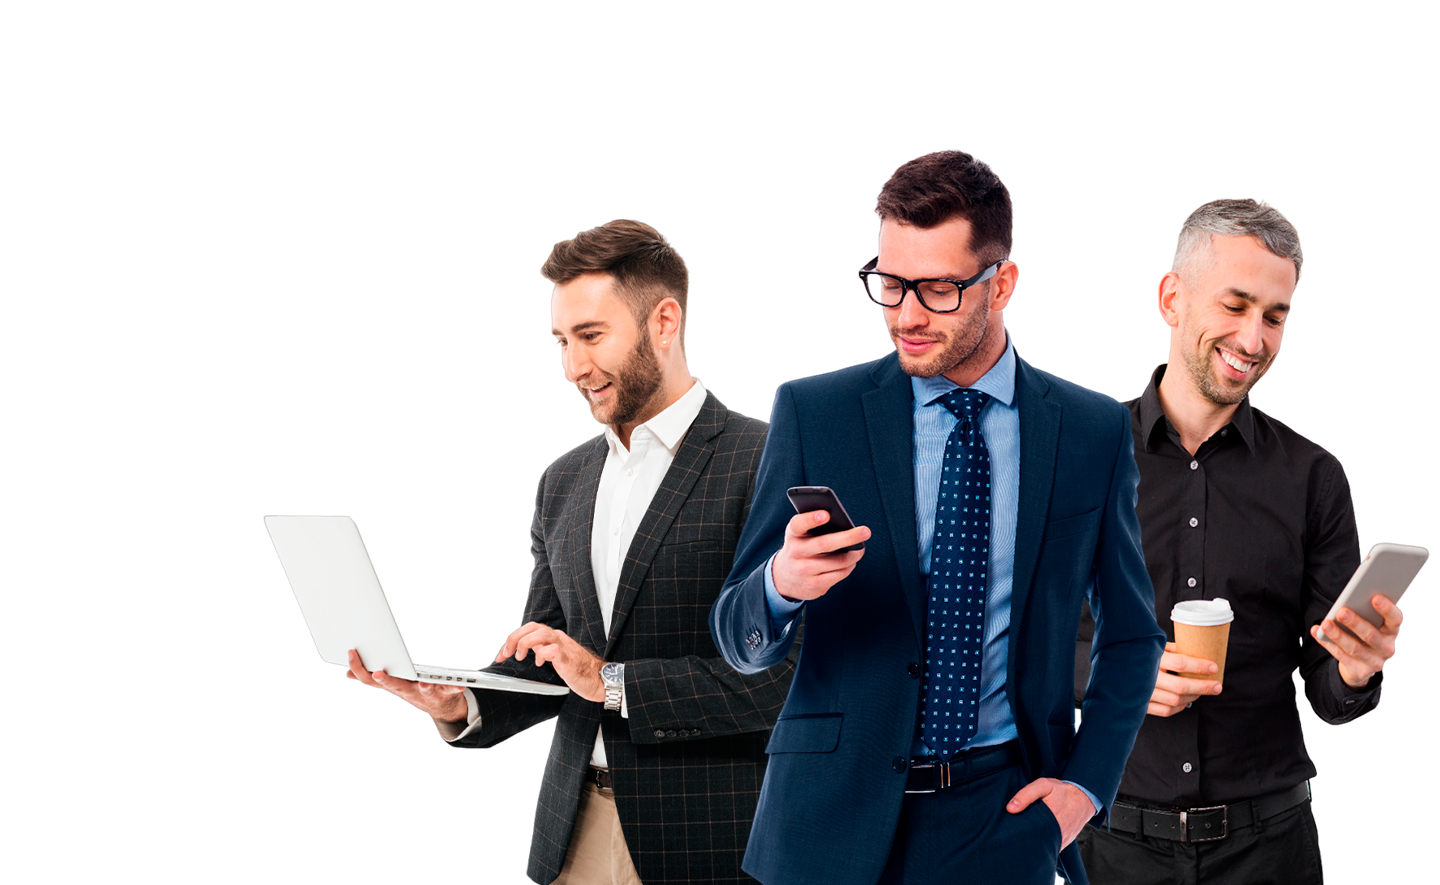
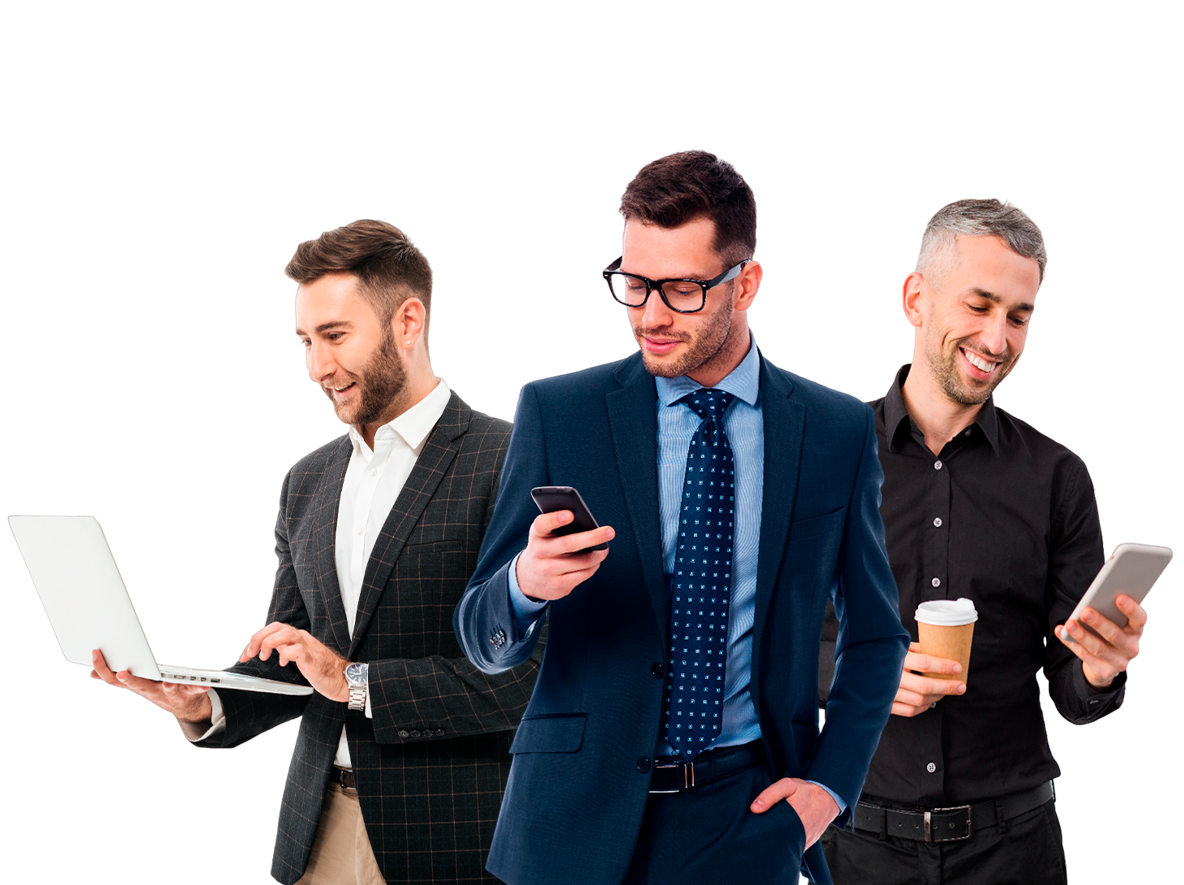
2 bugs resolvidos

diff --git a/style/style.css b/style/style.css
@@ -60,56 +60,45 @@ body{
 }
 
 .bg-image {
-    width: 75%;
-    display: flex;
-    float: right;
+    width: 800px;
     margin-top: -70px;
-    flex-direction: column;
+    padding-left: 70px;
+}
+
+.alignCta{
+    padding-left: 20px;
+    padding-top: 200px;
 }
 
 .cta-1{
-    position: absolute;
-    left: 300px;
-    bottom: 200px;
     font-size: 40px;
-    top: 40%;
-    left: 7%;
-    display: block;
+    font-weight: 600;
+    padding-bottom: 8px;
 }
 
-#cta{
-    width: 383px;
-    height: 57px;
-    flex-shrink: 0; /*pesquisar*/
-    border-radius: 12px;
+#ctaButton button{
     cursor: pointer;
-    position: fixed;
-    display: block;
-    margin-left: -25rem;
-    margin-top: 100px;    
+    font-size: 20px;
+    font-weight: 700;
+    width: 367px;
+    height: 57px;
+    color: #fff;
+    border: none;
+    border-radius: 12px;
     background: #0B8DD4;
+    transition: 0.7s;
 }
 
-.cta-1, #cta{
-    display: block;
+#ctaButton button:hover{
+    background-color: #fff;
+    color: #0891DD;
+    border: solid #0891DD 0.5px;
+    transition: 0.7s;
 }
 
-#cta, h3{
-    color: white;
-    position: absolute;
-    top: 50%;
-    left: 50%;
-    transform: translate(-50%, -50%);
-    transition: 0.3s;
-}
-
-#cta:hover{
-    background-color: white;
-    border: solid #0B8DD4 0.1px;
-}
-#cta:hover > h3{
-    color: #0B8DD4;
-    transition: 0.3s;
+.containerUm{
+    display: flex;
+    justify-content: center;
 }
 
 a{
@@ -124,12 +113,12 @@ a{
     background-color: #0B8DD4;
 }
 
-.sessao-2 > h1{
+.sessao-2 h1{
     font-size: 30px;
     display: flex;
 }
 
-.sessao-2 > h1 > span{
+.sessao-2 h1, span{
     color: white;
 }
 
@@ -288,7 +277,7 @@ a{
     background-color: white;
 }
 
-.sessao-3 > h1{
+.sessao-3 h1{
     color: #161212;
     font-family: "Poppins";
     margin: 9rem 1rem 1rem 1rem;
@@ -381,7 +370,7 @@ a{
 .sessao-5{
     margin-top: 2rem;
     margin-left: 3rem;
-    font-size: 1.5rem;
+    font-size: 1.5rem;    
 }
 
 .sessao-5 h4{
@@ -392,6 +381,7 @@ a{
     display: grid;
     grid-template-columns: repeat(3, 25rem);
     gap: 1rem;
+    justify-content: center;
     list-style-type: none;
     overflow-x: hidden; 
     margin-bottom: 6rem
@@ -478,7 +468,7 @@ footer{
   }
   
   .sectionCta{
-    width: 100%;
+    
     height: auto;
   }
 

diff --git a/pages/index.html b/pages/index.html
@@ -40,11 +40,13 @@
     </div>
     <!--Negocie com os mercados globais-->
     <nav class="containerUm">
-        <img class="bg-image" src="../img/mens.png" alt="">
-        <h1 class="cta-1">Negocie com os <br> <span style="color: #0B8DD4;"> Mercados Globais </span></h1>
-        <div id="cta">
-            <h3>Quero começar</h3>
-        </div>
+      <div class="alignCta">
+      <h1 class="cta-1">Negocie com os <br> <span style="color: #0B8DD4;"> Mercados Globais </span></h1>
+      <div id="ctaButton">
+          <button>Quero começar</button>
+      </div>
+    </div>
+        <img class="bg-image" src="../img/mens.png" alt="Homens">
     </nav>
 </section>
 <!--Segunda sessão do site - Duas formas de ganho-->
